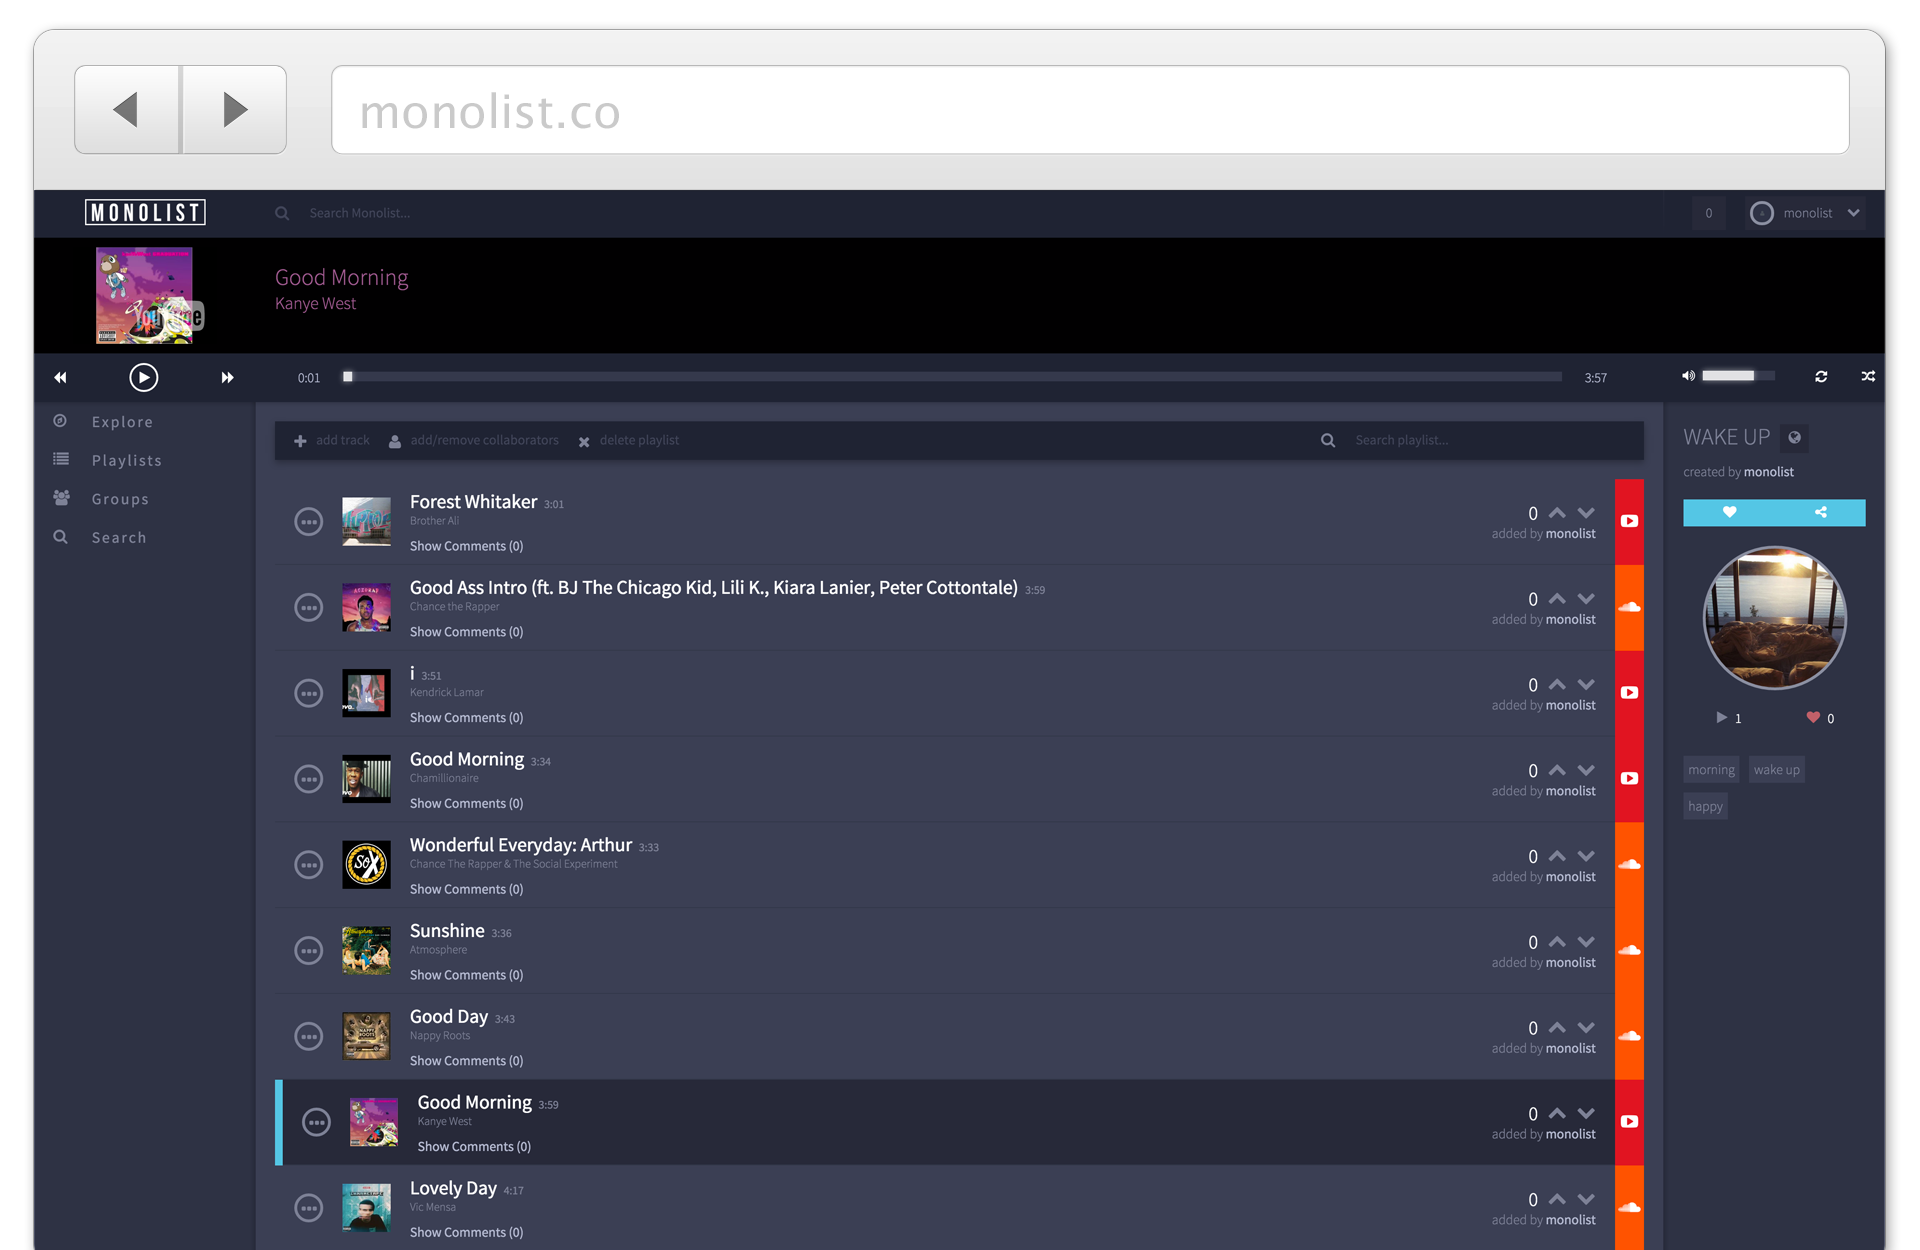
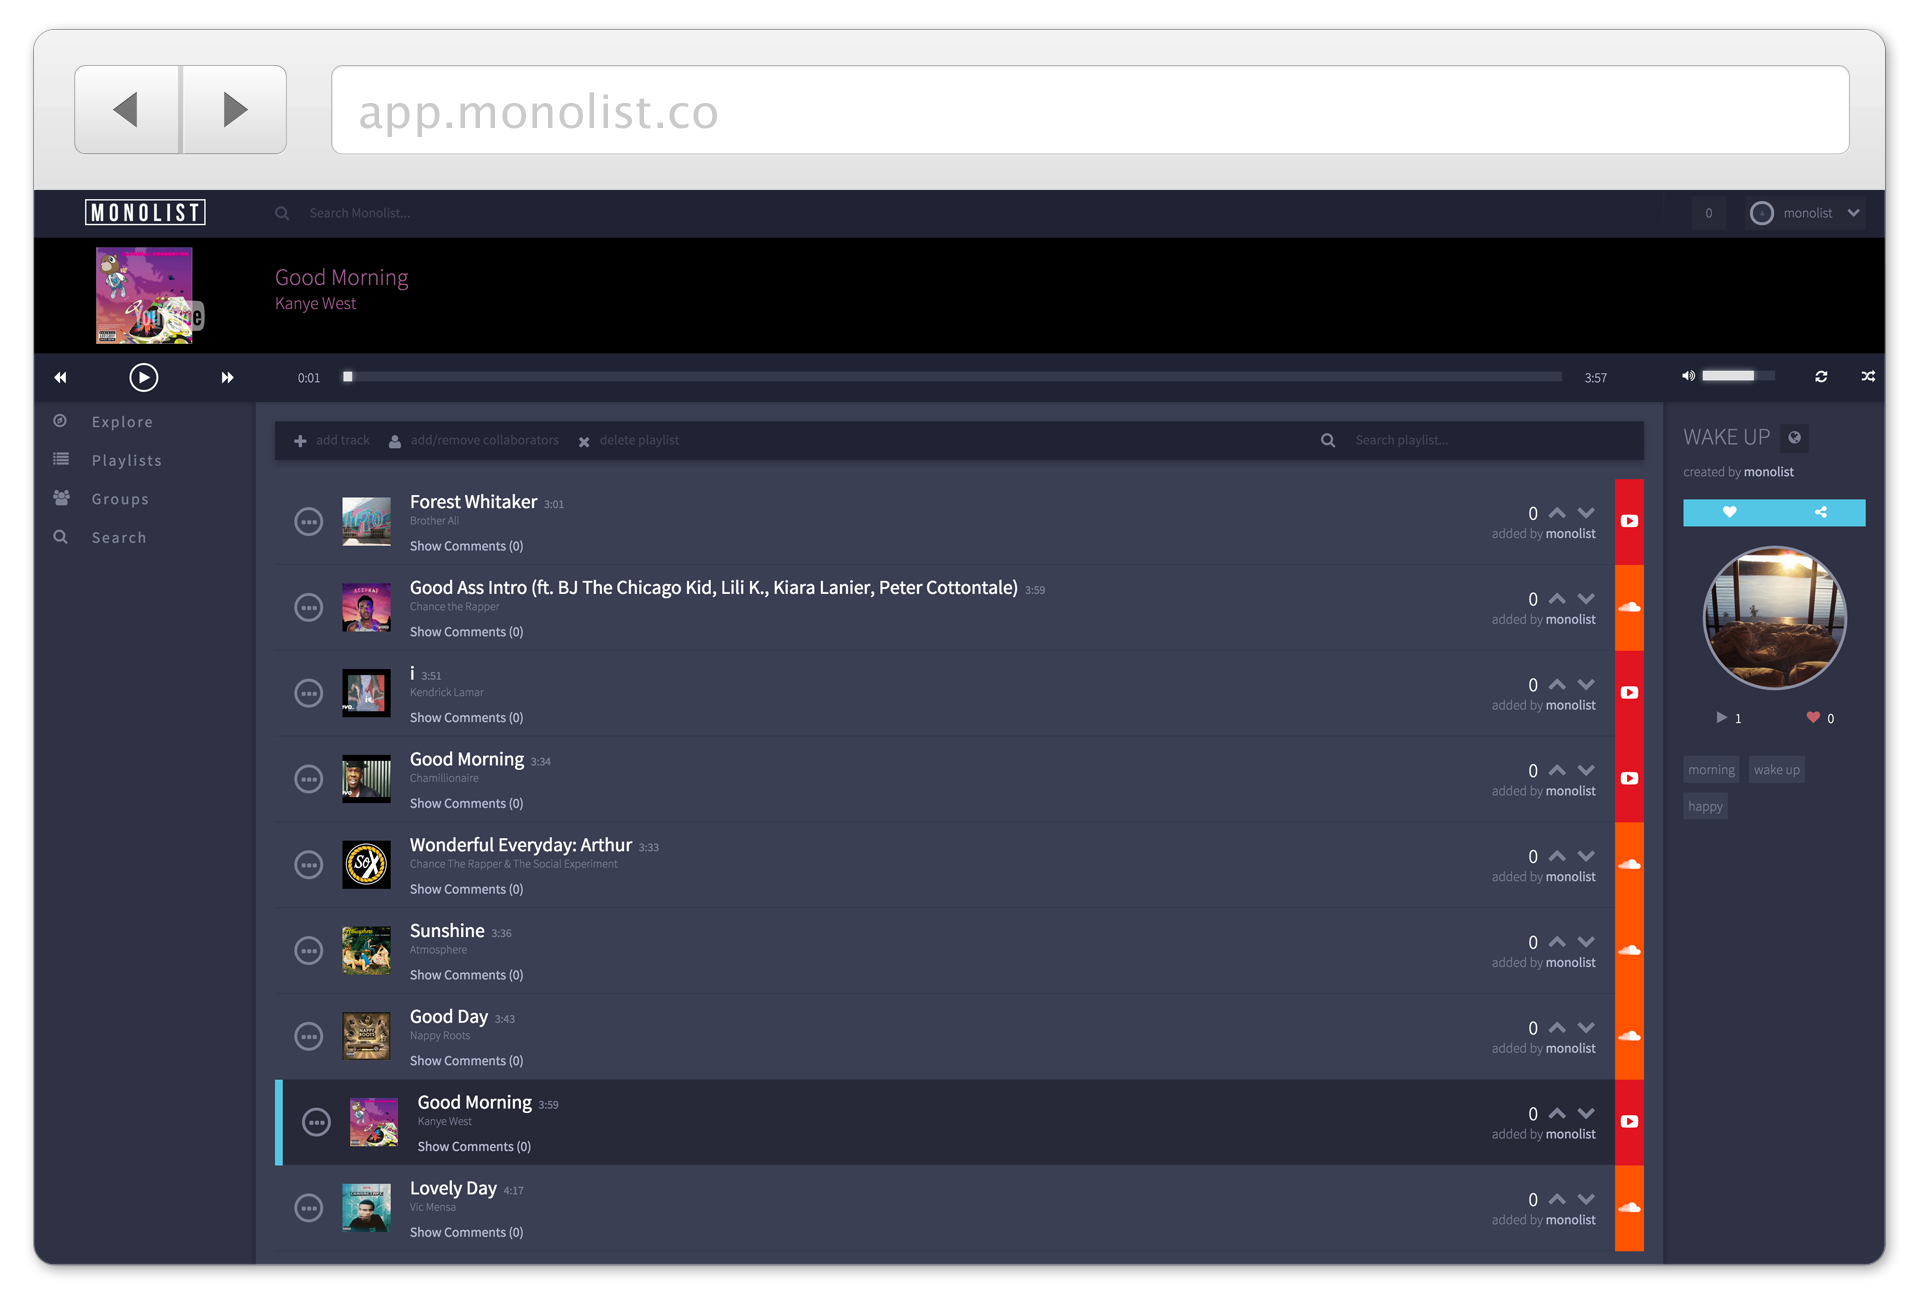
update screenshot and styling

Changed region(s): [[0.0, 0.0624, 1.0, 1.0]]

diff --git a/public/styles/elements/_hero.scss b/public/styles/elements/_hero.scss
@@ -67,13 +67,13 @@
   img.screenshot {
     position: relative;
     display: block;
-    margin: 12vh auto 0;
-    width: 65em;
+    margin: 4vh auto 0;
+    width: 85em;
     max-width: 1920px;
 
     @include mobile-styles {
+      margin-top: 6vh;
       width: 23em;
-      margin-top: 12vh;
     }
   }
 
